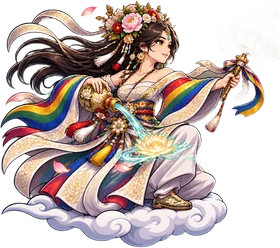
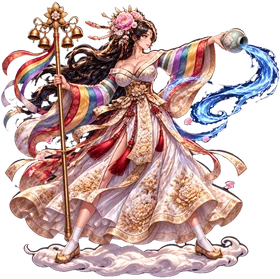
바리공주 원본 게임 그림 p14 극화체로 교체
Claude-Session: https://claude.ai/code/session_01X3WCR5nTXLkTaQuYbPMPiQ

diff --git a/game-design/art/바리공주각성/README.md b/game-design/art/바리공주각성/README.md
@@ -18,3 +18,4 @@
 - 이 그림체가 모든 그림의 기준(그림 규칙 00절). 이전 판(일러스트 B6을 참고로 그린 무릎·서 있는 판)은 그림체가 섞여 폐기.
 - (11/21 교체) 새 그림체 기준(T3_front·S4)으로 다시 그림: 참고 = T3_front + S4 + 원본 일러스트 c14(얼굴·체형만), job 1ef8369d-f77e-4421-b655-f7747730ad9f. 서서 오른쪽, 손바닥 위 병 물줄기, 지팡이 떠 있음. 사용자 「우선 저장」. 남은 차이: 기준보다 명암이 옅고 눈매가 둥긂, 약 8.5~9등신(원본 참고가 칠을 섞음 → 다음부터 기준 두 장 + 글로 캐릭터 설명 검토).
 - 원본 일러스트 교체(사용자 확정 11/23): `../게임용/cut14.webp`(job e6721087, 배경 제거 4d228ef1 + hfcut.py). 달빛 극화체, 모란 화관·흰 무녀 한복·색동 소매·방울 지팡이·청자 항아리 물줄기·연꽃.
+- 원본 게임 그림 교체(사용자 확정): `../게임용/p14.webp`(280×279)·`p14_hi`(job 993af33d, 남색 배경 직접 지움). 구름에 앉은 자세 → 흰 구름 위에 서서 캐릭터 오른손(화면 왼쪽)은 방울 지팡이, 캐릭터 왼손(화면 오른쪽)은 청자 항아리로 물을 앞으로 쏟음.

diff --git a/game-design/00_결정사항.md b/game-design/00_결정사항.md
@@ -251,3 +251,4 @@
 | 2026-11-23 | 두억시니 각성 게임 그림 aw11p 확정. 동료 각성 그림 전부 끝 |
 | 2026-11-23 | 두억시니(11) 원본 p11b·cut11x 달빛 극화체 교체, 각성 「검은 달 쌍고리」 적용: 앞 고리칼에서 검은 초승달 관통·가까운 탄 지움·스킬 어둠 걷기 돌진·끝 어둠 속 그림자 베기. 수치 AWK_DK. 캐릭터 23명 각성 모두 적용 |
 | 2026-11-23 | 바리공주(14) 원본 일러스트 cut14 달빛 극화체로 교체 |
+| 2026-11-23 | 바리공주(14) 원본 게임 그림 p14 달빛 극화체로 교체(구름 위에 섬) |
